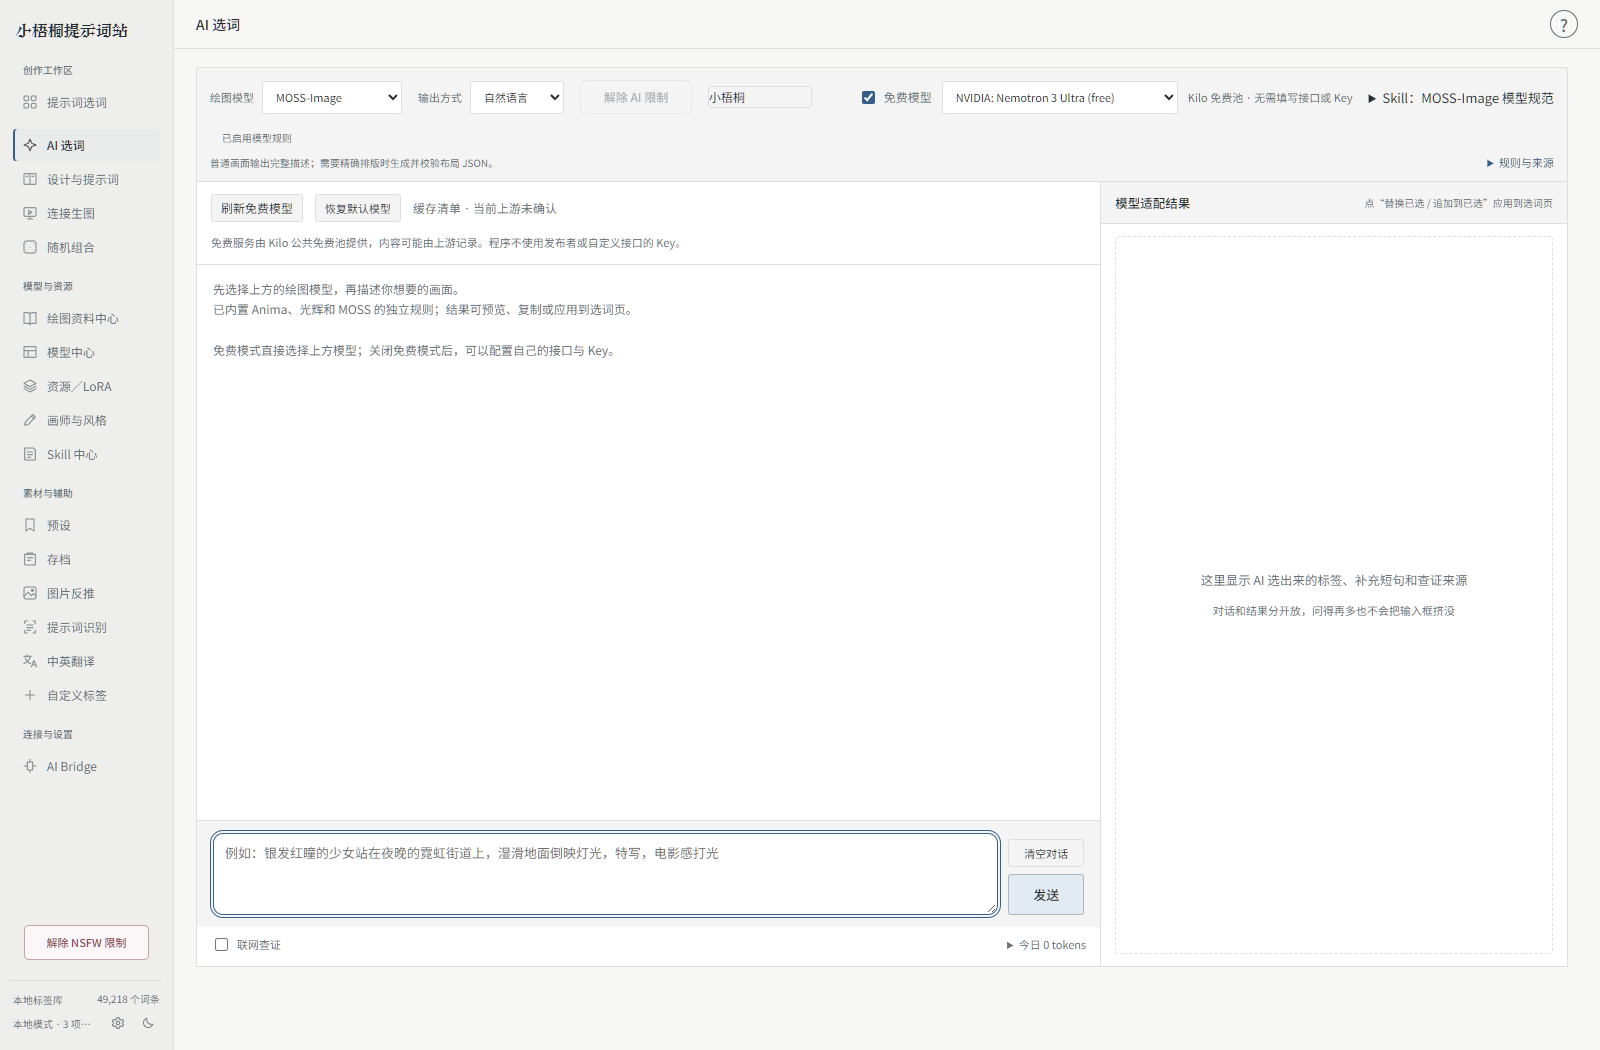
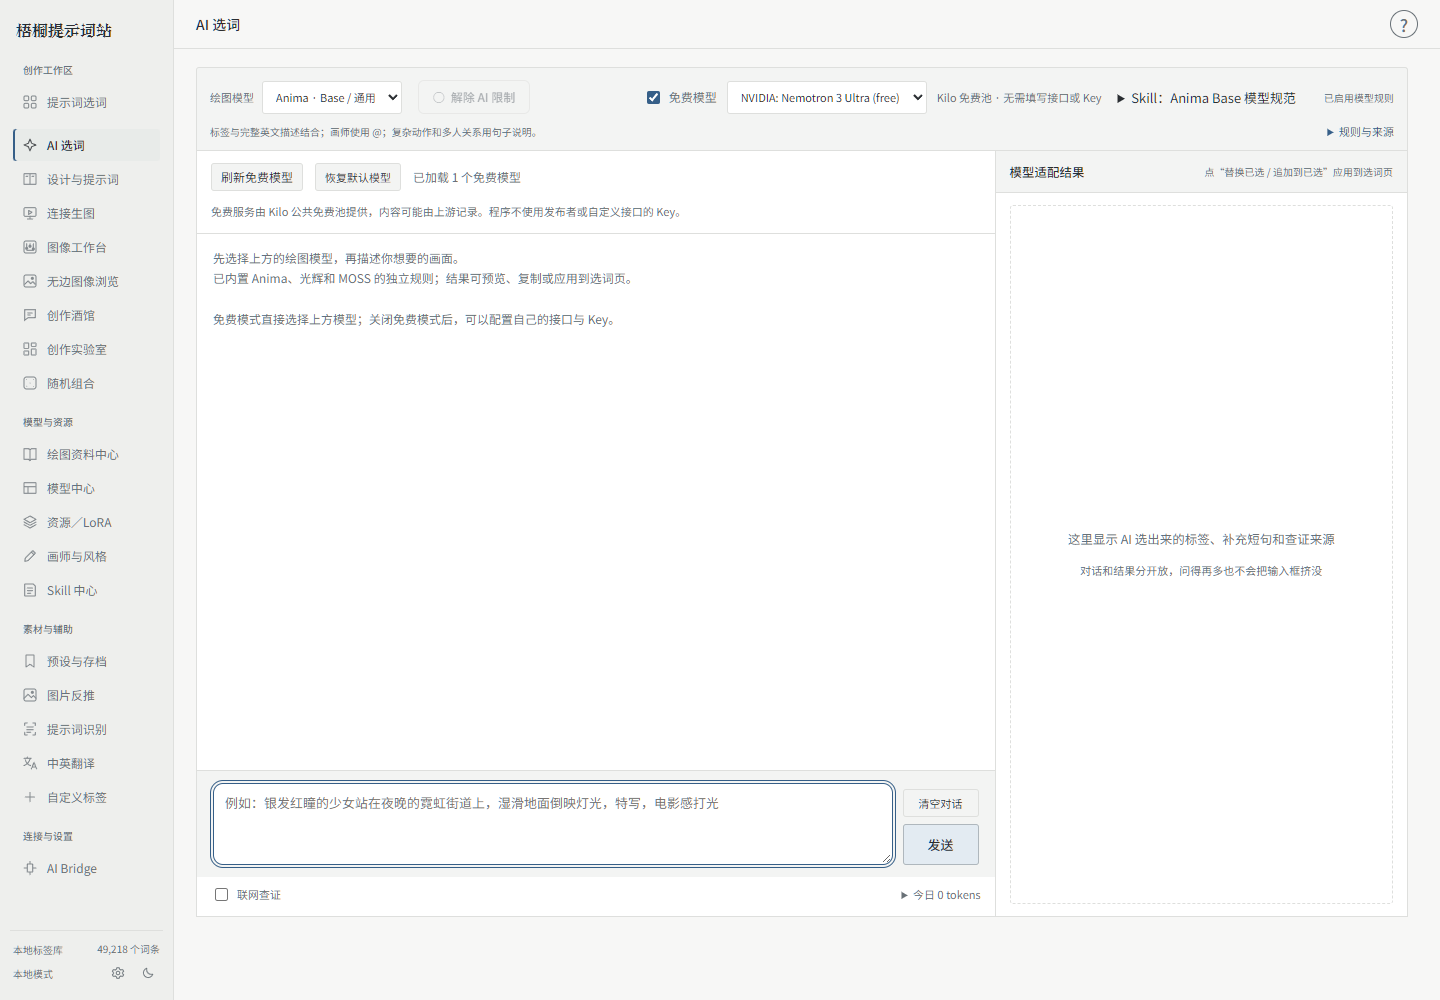
Release 0.3.8: rename Wutong Prompt Station and simplify AI dialogue

diff --git a/README.md b/README.md
@@ -1,4 +1,4 @@
-# 小梧桐提示词站
+# 梧桐提示词站
 
 **Mioha Prompt Station · 把创意、提示词、绘图资源与生图流程放进同一个工作台。**
 
@@ -12,15 +12,11 @@
 
 用中文描述画面，让**内置 AI**结合本地标签、角色配方与绘图模型 Skill 整理提示词；也可以自己选词、调整权重、管理 LoRA，再连接本机 NeoForge、ComfyUI 或已配置的 NovelAI 服务生图。
 
-当前版本 **0.3.7**。版本号在软件的设置页面查看。本仓库提供安装包、使用手册、模型 Skill 和发布记录。
+当前版本 **0.3.8**。版本号在软件的设置页面查看。本仓库提供安装包、使用手册、模型 Skill 和发布记录。
 
-## 0.3.7 普通聊天与清空修复
+## 0.3.8 更名与对话整理
 
-免费和自定义模型的普通回复不再触发 MOSS 绘图结果错误。AI 工作区取消历史列表与保存，只保留当前对话；点击清空即删除内容并重新开始，刷新或重启不恢复旧聊天。[查看 AI 使用说明](docs/BUILT_IN_AI.md)。
-
-## 0.3.6 对话内核与工作模式（历史版本，历史列表已在 0.3.7 取消）
-
-正常／计划模式、本地会话恢复、流式回复、工具执行记录和停止控制已整合。内置 Agent 由程序自动使用，内容模式继续遵循全局确认；用户端不开放内部配置的选择或导入。[查看 AI 使用说明](docs/BUILT_IN_AI.md)。
+软件更名为**梧桐提示词站**，移除正常／计划切换。AI 工作区只保留当前对话，清空即删除并重新开始。补齐接口的结构化与流式拒答显示，避免误报为 MOSS 提示词缺失；上游是否回答仍由所选模型决定。[查看 AI 使用说明](docs/BUILT_IN_AI.md)。
 
 ## 0.3.5 自定义 AI 思考与新建会话
 

diff --git a/CHANGELOG.md b/CHANGELOG.md
@@ -1,5 +1,13 @@
 # 更新记录
 
+## 0.3.8 · 2026-11-12 · 更名与对话整理
+
+- 软件统一更名为「梧桐提示词站」，同步窗口、侧栏、安装程序、桌面与开始菜单入口。继续使用原数据目录与升级标识。
+- 移除 AI 选词的正常／计划切换和旧模式接口；请求期间保留状态与停止回复，空闲时减少多余控制行。
+- 补齐 OpenAI 兼容接口的 JSON / 流式 refusal 字段和 content_filter 终态解析。上游拒答正常显示，不误报为缺少文本或 MOSS 提示词。
+- 拒答不自动重试、不执行工具、不写入绘图编辑器；普通聊天、真实绘图结果和清空重建对话继续分别处理。
+- 处理 Windows 停止流式回复时的连接中断异常。
+
 ## 0.3.7 · 2026-11-12 · 普通聊天与清空修复
 
 - 修复普通聊天、功能咨询与计划说明被当成 MOSS 绘图结果校验的问题。免费和自定义 API 都能正常显示没有绘图字段的回复，聊天内容不写入提示词框。

diff --git a/docs/WD14.md b/docs/WD14.md
@@ -19,8 +19,8 @@
 推荐每个模型单独一个子文件夹：
 
 ```text
-小梧桐提示词站的安装目录/
-├── 小梧桐提示词站.exe
+梧桐提示词站的安装目录/
+├── 梧桐提示词站.exe
 ├── app-runtime/
 ├── runtime/
 │   └── tagger/
